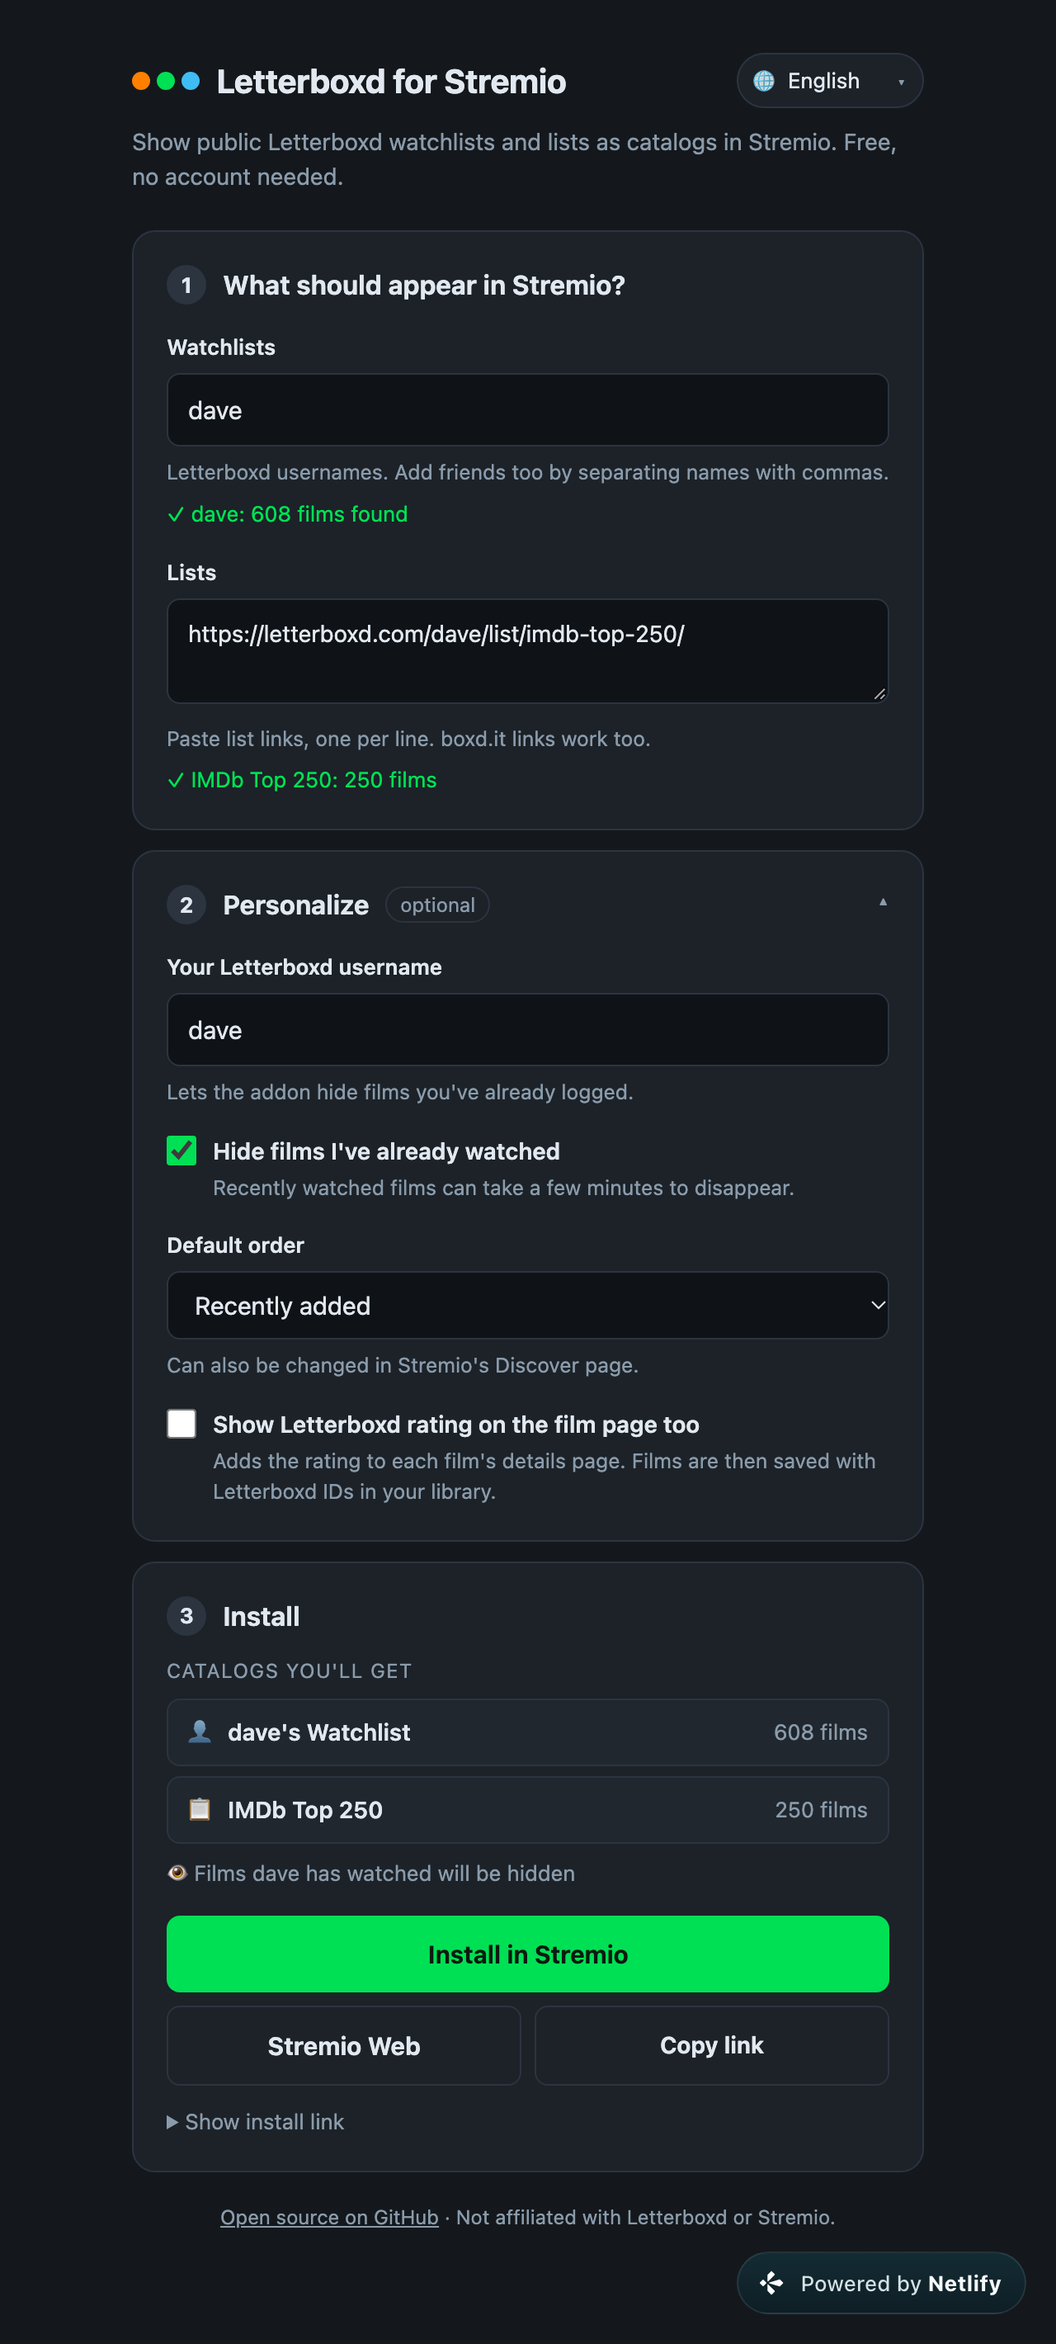
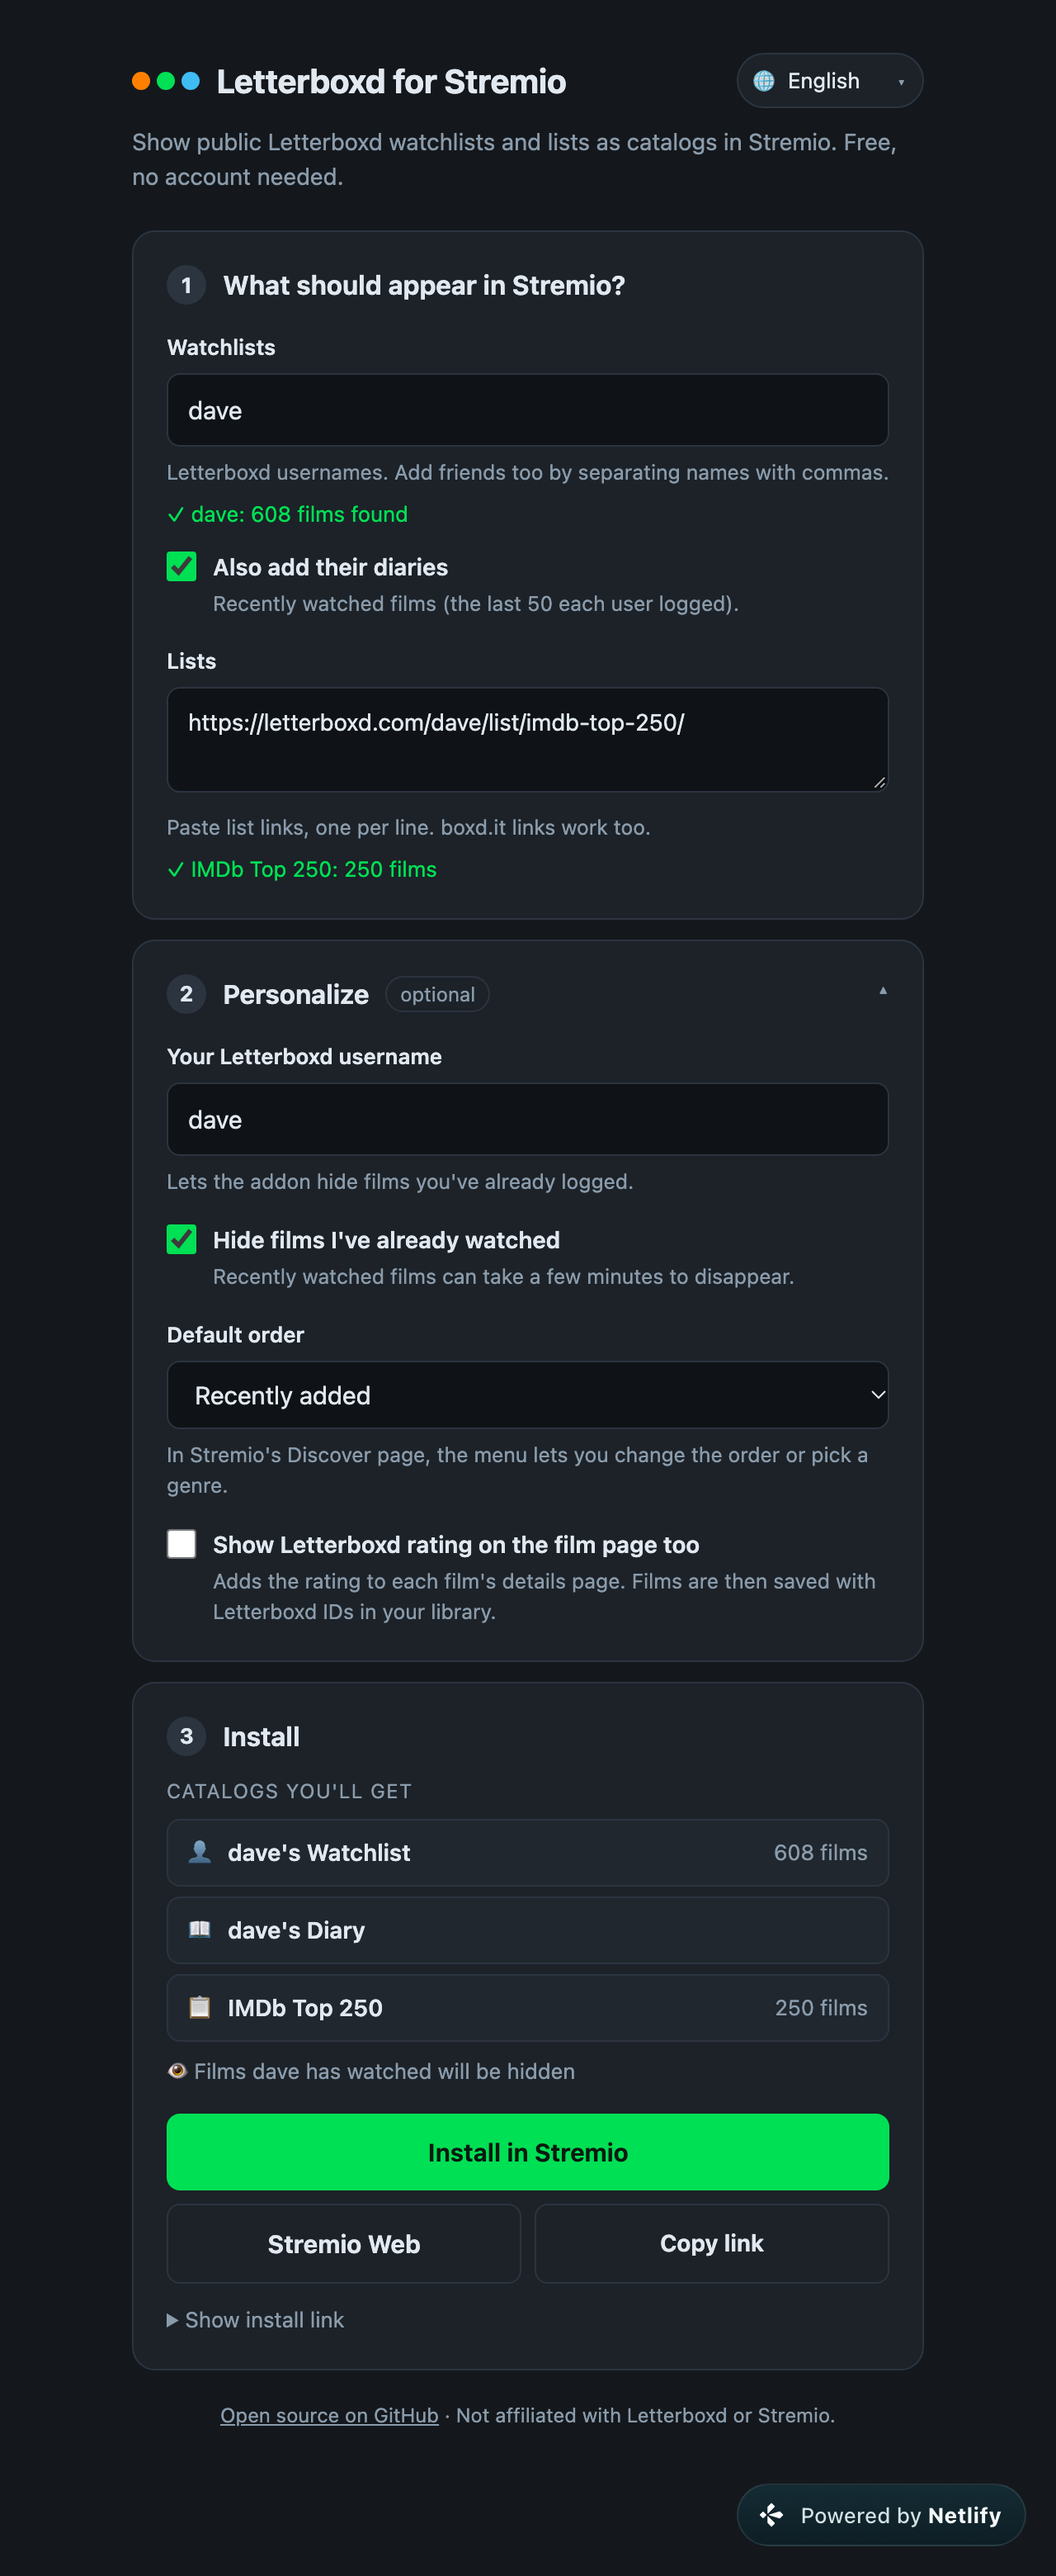
Fix diary checkbox alignment; refresh screenshots

diff --git a/src/configure.js b/src/configure.js
@@ -67,7 +67,7 @@ export function configurePage(origin, cfg) {
   .step[open] .chev { transform:rotate(180deg); }
 
   .field { margin-top:16px; }
-  .field > label { display:block; font-size:13px; font-weight:600; margin-bottom:6px; }
+  .field > label:not(.check) { display:block; font-size:13px; font-weight:600; margin-bottom:6px; }
   input:not([type=checkbox]), select, textarea { width:100%; padding:10px 12px; border-radius:8px; border:1px solid var(--line);
          background:var(--field); color:var(--text); font:inherit; font-size:15px; }
   .field select { appearance:auto; }
